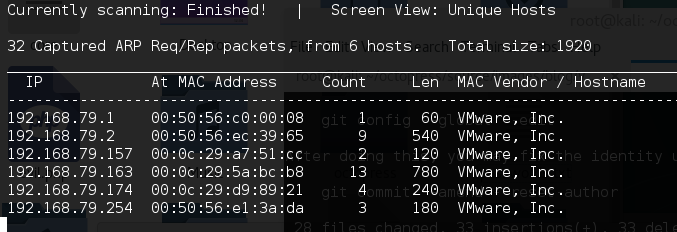
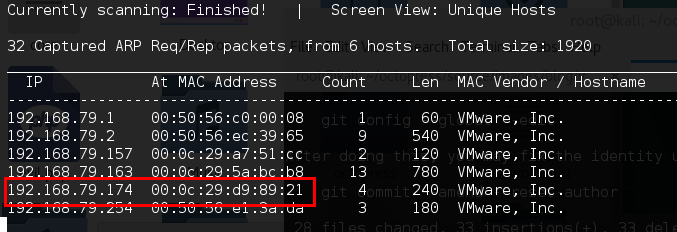
Site updated at 2016-05-02 20:19:01 UTC

Changed region(s): [[0.0, 0.7543, 0.4653, 0.9052]]

diff --git a/blog/2016/05/02/vulhub-kevgir1/index.html b/blog/2016/05/02/vulhub-kevgir1/index.html
@@ -121,6 +121,14 @@ $(document).ready(
 <p><img src="/images/blog/vulhub/kevgir1/Selection_001.png" title="[title manually exploit [alt text]]" ></p>
 
 <p>192.168.79.174 is the target.</p>
+
+<p>Then run nmap to detect opening ports and running services on the target machine.</p>
+
+<p><code>nmap -sV -v -O -A -T5 192.168.79.174 -p-</code></p>
+
+<p><img src="/images/blog/vulhub/kevgir1/Selection_002.png" title="[title manually exploit [alt text]]" ></p>
+
+<p>looks like port 8080 and 8081 are very interesting&hellip;..</p>
 </div>
 
 
